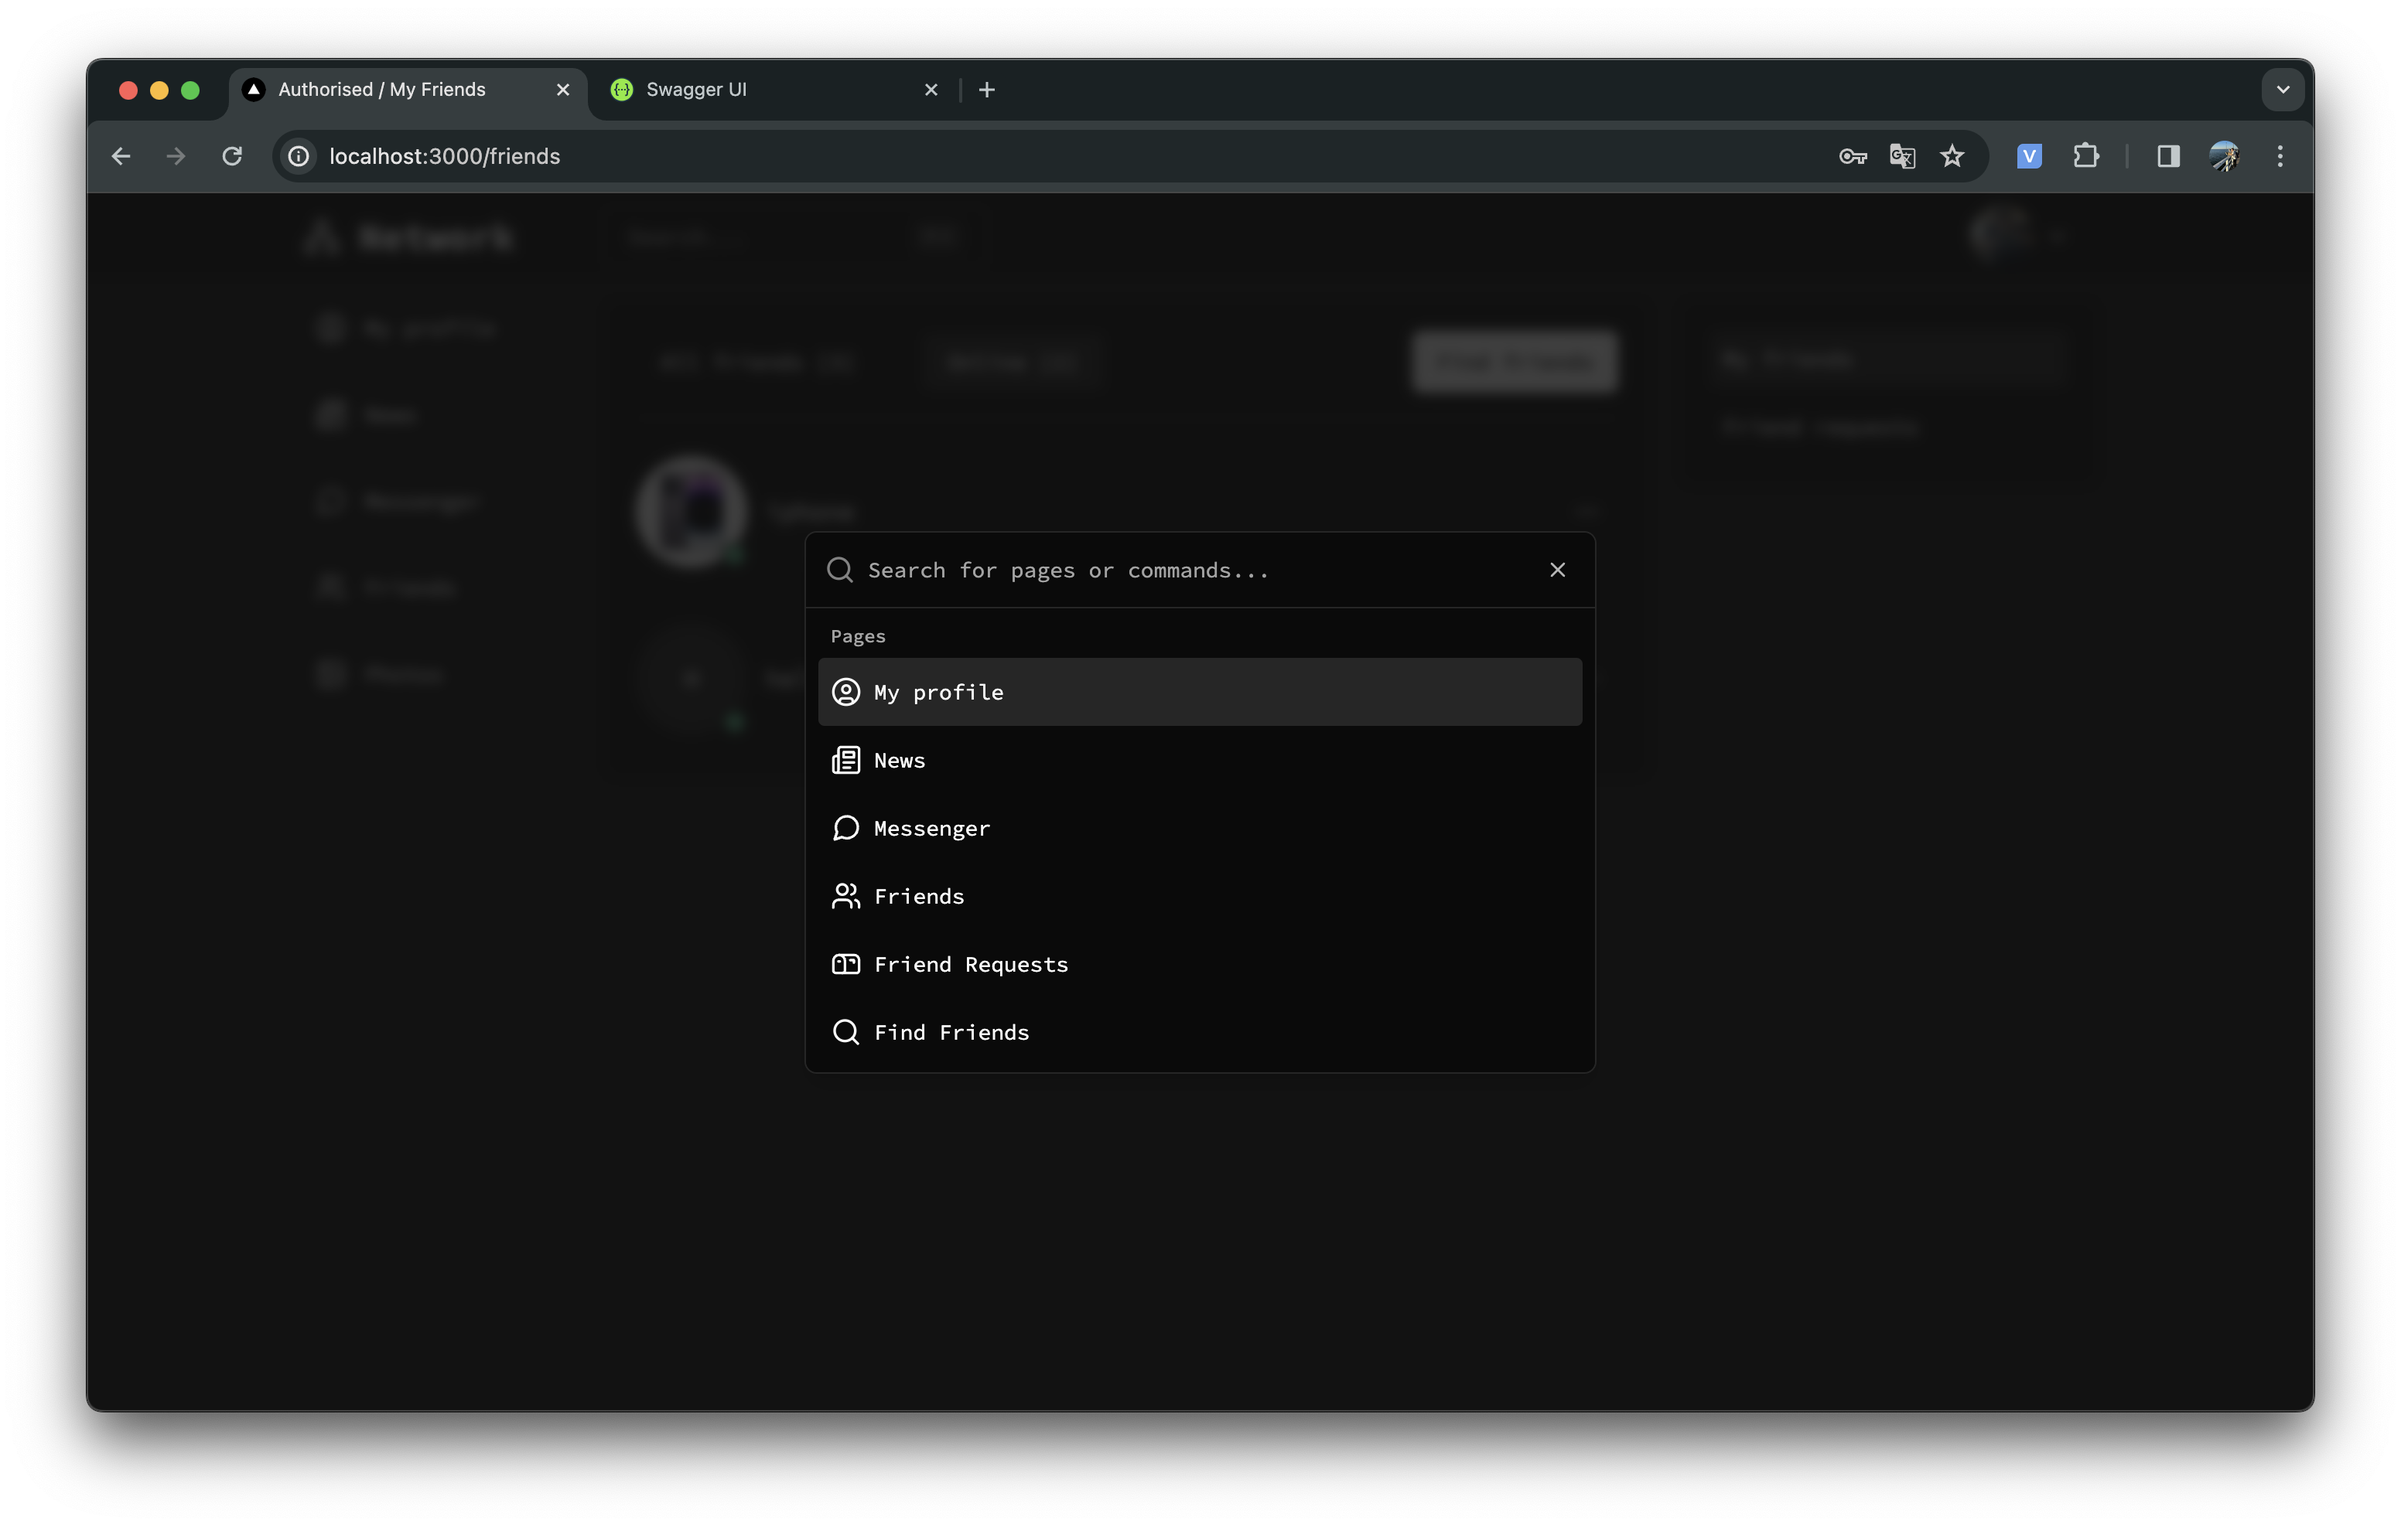
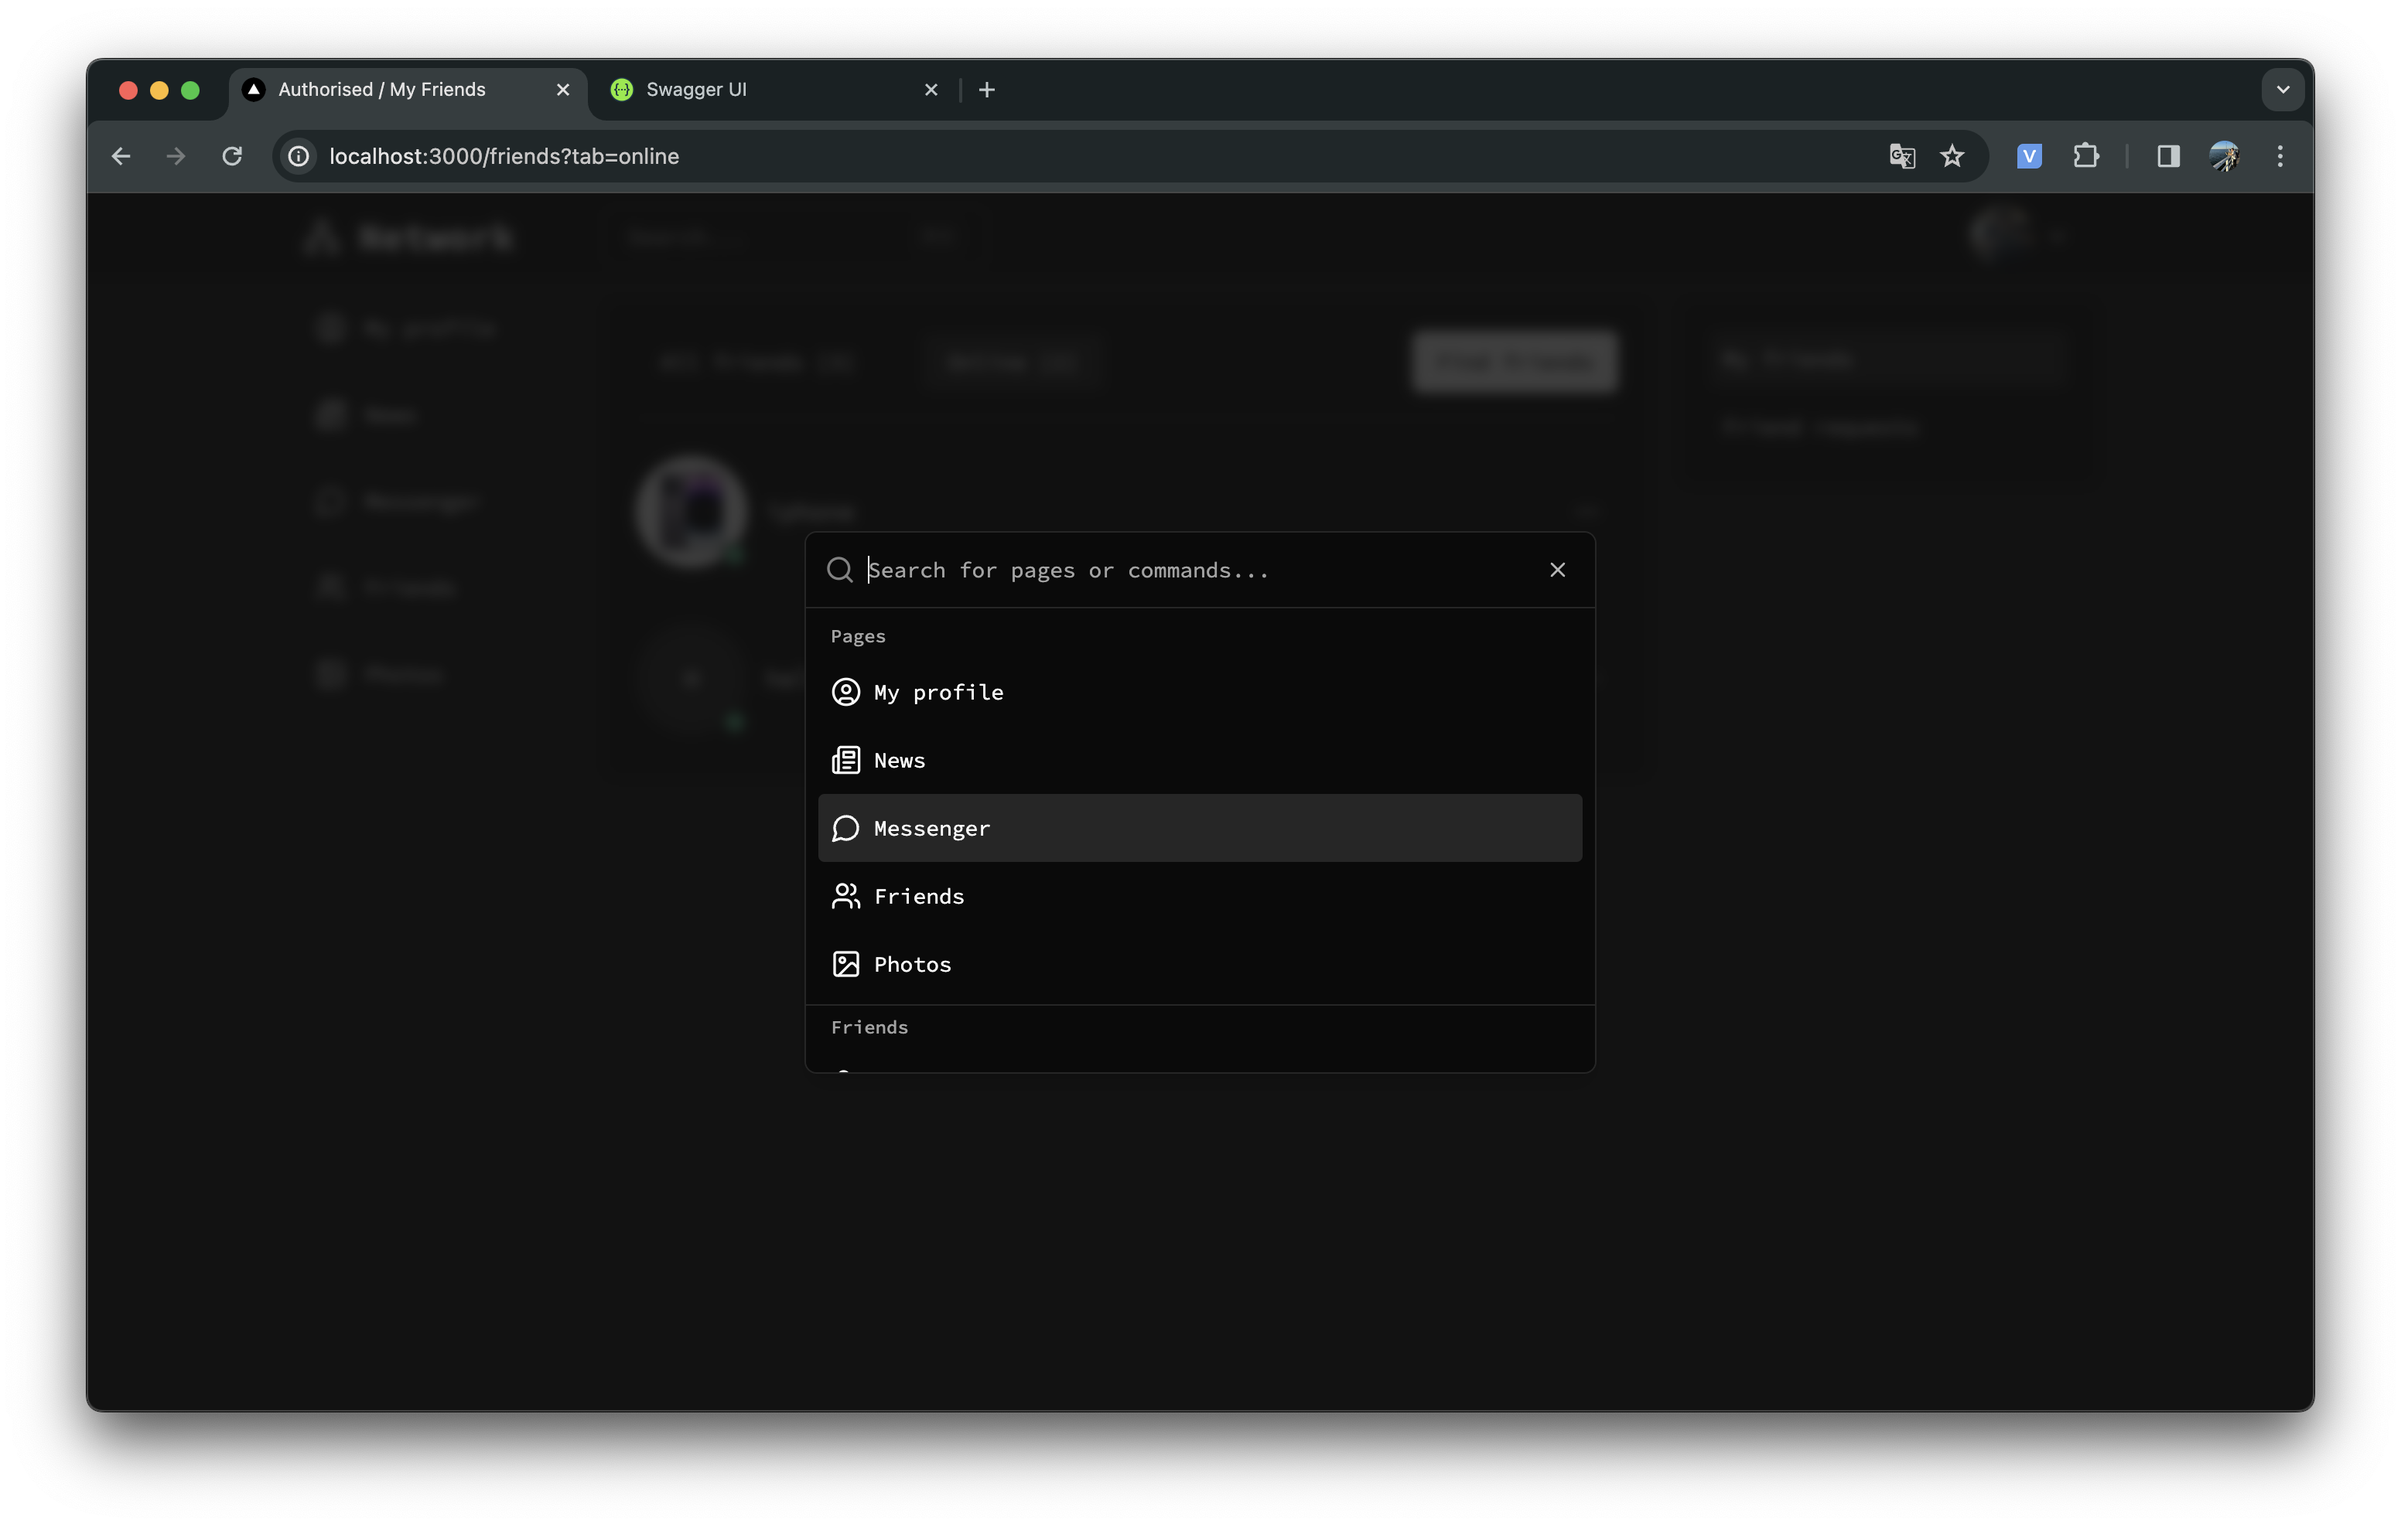
feat: enhance command menu; friends page tab information is now stored in query, not in useState

Changed region(s): [[0.3438, 0.4326, 0.6562, 0.5871], [0.3438, 0.618, 0.4375, 0.6798], [0.25, 0.0927, 0.2812, 0.1236]]

diff --git a/src/components/command-menu.tsx b/src/components/command-menu.tsx
@@ -9,7 +9,9 @@ import {
   MoonStar,
   Monitor,
   UserSearch,
-  Mailbox
+  Mailbox,
+  Cog,
+  MonitorSmartphone
 } from 'lucide-react';
 import { useTheme } from 'next-themes';
 
@@ -33,7 +35,7 @@ import { useCommandMenuStore } from '@/zustand/command-menu.store';
 const COMMAND_ITEM_ICON_STYLE = 'mr-2 h-4 w-4';
 
 export const CommandMenu: FC = () => {
-  const { commandMenuOpened, toogle, setCommandMenuOpened } =
+  const { commandMenuOpened, toogleCmdMenuOpenState, setCommandMenuOpened } =
     useCommandMenuStore();
 
   const { setTheme } = useTheme();
@@ -45,7 +47,7 @@ export const CommandMenu: FC = () => {
       if (e.key === 'k' && (e.metaKey || e.ctrlKey)) {
         e.preventDefault();
 
-        toogle();
+        toogleCmdMenuOpenState();
       }
     };
 
@@ -66,11 +68,11 @@ export const CommandMenu: FC = () => {
         variant='outline'
         onClick={() => setCommandMenuOpened(true)}
         className={
-          'flex w-[250px] items-center justify-between text-sm text-muted-foreground'
+          'flex w-[120px] items-center justify-between rounded-lg text-sm text-muted-foreground sm:w-[250px]'
         }
       >
         <span>Search...</span>
-        <kbd className='pointer-events-none hidden h-5 select-none items-center gap-1 rounded border border-border bg-muted px-1.5 font-mono text-[10px] font-medium opacity-100 sm:flex'>
+        <kbd className='pointer-events-none hidden h-5 select-none items-center gap-1 rounded border border-border bg-muted px-1.5 font-mono text-[10px] font-medium opacity-100 sm:flex dark:bg-neutral-900'>
           <span className='text-xs'>⌘</span>K
         </kbd>
       </Button>
@@ -80,7 +82,7 @@ export const CommandMenu: FC = () => {
       >
         <CommandInput placeholder='Search for pages or commands...' />
         <CommandList>
-          <CommandEmpty>No results found.</CommandEmpty>
+          <CommandEmpty>No results found 🥲</CommandEmpty>
           <CommandGroup heading='Pages'>
             <CommandItem
               onSelect={() => runCommand(() => router.push(PAGES.MY_PROFILE))}
@@ -101,10 +103,34 @@ export const CommandMenu: FC = () => {
               <span>Messenger</span>
             </CommandItem>
             <CommandItem
-              onSelect={() => runCommand(() => router.push(PAGES.FRIENDS_ALL))}
+              onSelect={() =>
+                runCommand(() =>
+                  router.push({
+                    pathname: PAGES.FRIENDS,
+                    query: {
+                      tab: 'all'
+                    }
+                  })
+                )
+              }
             >
               <Users className={COMMAND_ITEM_ICON_STYLE} />
               <span>Friends</span>
+            </CommandItem>
+            <CommandItem
+              onSelect={() => runCommand(() => router.push(PAGES.PHOTOS))}
+            >
+              <Image className={COMMAND_ITEM_ICON_STYLE} />
+              <span>Photos</span>
+            </CommandItem>
+          </CommandGroup>
+          <CommandSeparator />
+          <CommandGroup heading='Friends'>
+            <CommandItem
+              onSelect={() => runCommand(() => router.push(PAGES.FRIENDS_FIND))}
+            >
+              <UserSearch className={COMMAND_ITEM_ICON_STYLE} />
+              <span>Find</span>
             </CommandItem>
             <CommandItem
               onSelect={() =>
@@ -115,16 +141,34 @@ export const CommandMenu: FC = () => {
               <span>Friend Requests</span>
             </CommandItem>
             <CommandItem
-              onSelect={() => runCommand(() => router.push(PAGES.FRIENDS_FIND))}
+              onSelect={() =>
+                runCommand(() =>
+                  router.push({
+                    pathname: PAGES.FRIENDS,
+                    query: {
+                      tab: 'all'
+                    }
+                  })
+                )
+              }
             >
-              <UserSearch className={COMMAND_ITEM_ICON_STYLE} />
-              <span>Find Friends</span>
+              <Users className={COMMAND_ITEM_ICON_STYLE} />
+              <span>All</span>
             </CommandItem>
             <CommandItem
-              onSelect={() => runCommand(() => router.push(PAGES.PHOTOS))}
+              onSelect={() =>
+                runCommand(() =>
+                  router.push({
+                    pathname: PAGES.FRIENDS,
+                    query: {
+                      tab: 'online'
+                    }
+                  })
+                )
+              }
             >
-              <Image className={COMMAND_ITEM_ICON_STYLE} />
-              <span>Photos</span>
+              <MonitorSmartphone className={COMMAND_ITEM_ICON_STYLE} />
+              <span>Online</span>
             </CommandItem>
           </CommandGroup>
           <CommandSeparator />
@@ -140,6 +184,13 @@ export const CommandMenu: FC = () => {
             <CommandItem onSelect={() => runCommand(() => setTheme('system'))}>
               <Monitor className={COMMAND_ITEM_ICON_STYLE} />
               <span>System</span>
+            </CommandItem>
+          </CommandGroup>
+          <CommandSeparator />
+          <CommandGroup heading='Settings'>
+            <CommandItem>
+              <Cog className={COMMAND_ITEM_ICON_STYLE} />
+              <span>Settings</span>
             </CommandItem>
           </CommandGroup>
         </CommandList>

diff --git a/src/components/friends/friends.tsx b/src/components/friends/friends.tsx
@@ -1,4 +1,4 @@
-import { type FC, useState } from 'react';
+import { type FC, useEffect } from 'react';
 
 import { Button } from '@/components/ui/button';
 import { Separator } from '@/components/ui/separator';
@@ -16,9 +16,25 @@ interface Props {
 }
 
 export const Friends: FC<Props> = ({ users }) => {
-  const [tab, setTab] = useState<'all' | 'online'>('all');
-
   const { router } = useFrequentlyUsedHooks();
+
+  useEffect(() => {
+    if (router.query.tab === 'all') {
+      router.push({
+        pathname: PAGES.FRIENDS,
+        query: {
+          tab: 'all'
+        }
+      });
+    } else {
+      router.push({
+        pathname: PAGES.FRIENDS,
+        query: {
+          tab: 'online'
+        }
+      });
+    }
+  }, [router.query.tab]);
 
   const connectionsInformation = useConnectionsInformation(
     users.reduce(
@@ -35,22 +51,36 @@ export const Friends: FC<Props> = ({ users }) => {
       <div className='flex items-center justify-between text-sm'>
         <ul className='flex gap-7'>
           <li
-            onClick={() => setTab('all')}
+            onClick={() =>
+              router.push({
+                pathname: PAGES.FRIENDS,
+                query: {
+                  tab: 'all'
+                }
+              })
+            }
             className={cn(
               `cursor-pointer rounded p-2 px-[1rem] py-[0.5rem] hover:bg-accent`,
               {
-                'bg-accent': tab === 'all'
+                'bg-accent': router.query.tab === 'all'
               }
             )}
           >
             {`All friends [${users.length}]`}
           </li>
           <li
-            onClick={() => setTab('online')}
+            onClick={() =>
+              router.push({
+                pathname: PAGES.FRIENDS,
+                query: {
+                  tab: 'online'
+                }
+              })
+            }
             className={cn(
               `cursor-pointer rounded p-2 px-[1rem] py-[0.5rem] hover:bg-accent`,
               {
-                'bg-accent': tab === 'online'
+                'bg-accent': router.query.tab === 'online'
               }
             )}
           >
@@ -76,7 +106,6 @@ export const Friends: FC<Props> = ({ users }) => {
       </div>
       <Separator className='mb-4 mt-4' />
       <FriendsList
-        listType={tab}
         friends={users}
         connectionsInformation={connectionsInformation}
       />

diff --git a/src/layouts/friends.tsx b/src/layouts/friends.tsx
@@ -16,11 +16,11 @@ export const Friends: FC<PropsWithChildren> = ({ children }) => {
       <div className='rounded-lg bg-background p-5'>
         <ul className='flex flex-col gap-2'>
           <li
-            onClick={() => router.push(PAGES.FRIENDS_ALL)}
+            onClick={() => router.push(PAGES.FRIENDS)}
             className={cn(
               'cursor-pointer rounded p-2 text-sm transition-[background-color] hover:bg-accent',
               {
-                'bg-accent': router.asPath === PAGES.FRIENDS_ALL
+                'bg-accent': router.pathname === PAGES.FRIENDS
               }
             )}
           >
@@ -31,7 +31,7 @@ export const Friends: FC<PropsWithChildren> = ({ children }) => {
             className={cn(
               'cursor-pointer rounded p-2 text-sm transition-[background-color] hover:bg-accent',
               {
-                'bg-accent': router.asPath === PAGES.FRIENDS_REQUESTS
+                'bg-accent': router.pathname === PAGES.FRIENDS_REQUESTS
               }
             )}
           >

diff --git a/src/components/friends/friends-list.tsx b/src/components/friends/friends-list.tsx
@@ -14,6 +14,7 @@ import { Avatar } from '@/components/avatar';
 
 import { useCommonActions } from '@/hooks/use-common-actions';
 import { useRequestsActions } from '@/hooks/use-requests-actions';
+import { useFrequentlyUsedHooks } from '@/hooks/use-frequently-used-hooks';
 
 import type { UserFromListOfUsers } from '@/lib/types';
 import {
@@ -22,21 +23,20 @@ import {
 } from '@/lib/constants';
 
 interface Props {
-  listType: 'all' | 'online';
   friends: UserFromListOfUsers[];
   connectionsInformation: {
     [username: string]: 'online' | 'offline';
   };
 }
 
-export const FriendsList: FC<Props> = ({
-  friends,
-  listType,
-  connectionsInformation
-}) => {
+export const FriendsList: FC<Props> = ({ friends, connectionsInformation }) => {
+  const { router } = useFrequentlyUsedHooks();
+
   const { unfriend } = useRequestsActions();
 
   const { writeMessage } = useCommonActions();
+
+  const listType = router.query.tab as 'all' | 'online';
 
   const users =
     listType === 'all'

diff --git a/src/layouts/authorised.tsx b/src/layouts/authorised.tsx
@@ -74,7 +74,18 @@ export const Authorized: FC<PropsWithChildren> = ({ children }) => {
               {pages.map((page) => (
                 <li
                   key={page}
-                  onClick={() => router.push(`/${page}`)}
+                  onClick={() => {
+                    if (page === 'friends') {
+                      router.push({
+                        pathname: `/${page}`,
+                        query: {
+                          tab: 'all'
+                        }
+                      });
+                    } else {
+                      router.push(`/${page}`);
+                    }
+                  }}
                   className='flex cursor-pointer items-center gap-2 rounded p-2 text-sm transition-[background-color] hover:bg-neutral-200 dark:hover:bg-neutral-950'
                 >
                   {icon(page, 20)}

diff --git a/src/zustand/command-menu.store.ts b/src/zustand/command-menu.store.ts
@@ -2,7 +2,7 @@ import { create } from 'zustand';
 
 type CommandMenuState = {
   commandMenuOpened: boolean;
-  toogle: () => void;
+  toogleCmdMenuOpenState: () => void;
   setCommandMenuOpened: (opened: boolean) => void;
 };
 
@@ -12,7 +12,7 @@ export const useCommandMenuStore = create<CommandMenuState>((set) => ({
     set(() => {
       return { commandMenuOpened: opened };
     }),
-  toogle: () =>
+  toogleCmdMenuOpenState: () =>
     set((state) => {
       return { commandMenuOpened: !state.commandMenuOpened };
     })

diff --git a/src/lib/constants.ts b/src/lib/constants.ts
@@ -11,7 +11,7 @@ export const PAGES = {
   MESSENGER_CHAT: '/messenger/chat',
   NEWS: '/news',
   MY_PROFILE: '/profile',
-  FRIENDS_ALL: '/friends',
+  FRIENDS: '/friends',
   FRIENDS_FIND: '/friends/find',
   FRIENDS_REQUESTS: '/friends/requests',
   PHOTOS: '/photos'
